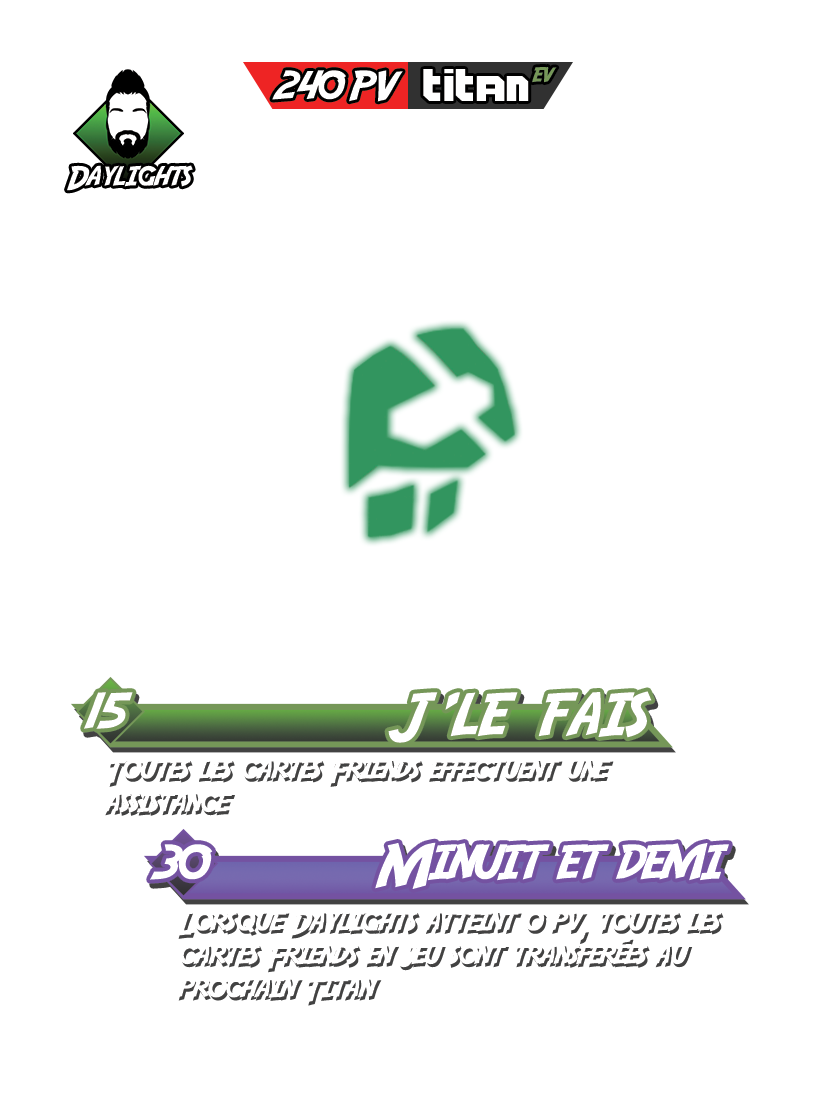
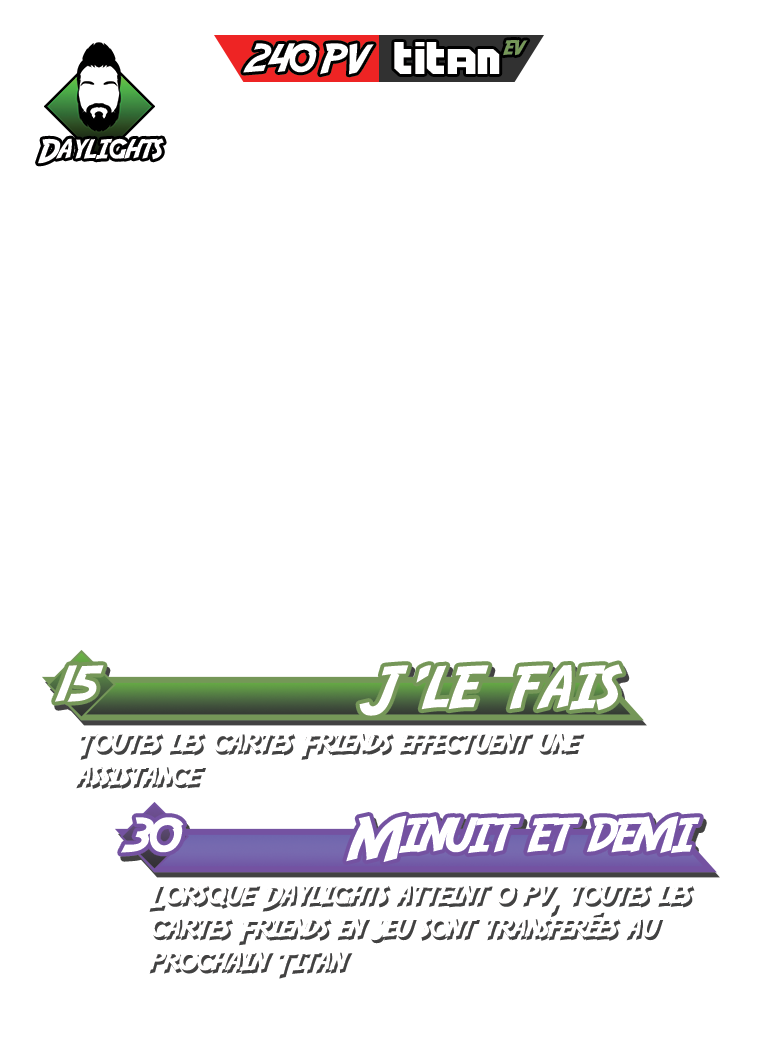
ajuster carte

diff --git a/src/components/TiltCardWidgetDeluxe/TiltCardWidgetDeluxe.js b/src/components/TiltCardWidgetDeluxe/TiltCardWidgetDeluxe.js
@@ -8,7 +8,7 @@ function TiltCardWidgetDeluxe({
     bg,
     size = 1,
     width = "48vmin",
-    heigt = "65vmin"
+    height = "67vmin"
 }) {
     return (
         <div className='tilt'>
@@ -28,7 +28,7 @@ function TiltCardWidgetDeluxe({
                 style={{
                     backgroundImage: "url('" + shiny + "')",
                     width: width,
-                    height: heigt
+                    height: height
                     }}>
 
                 <img
